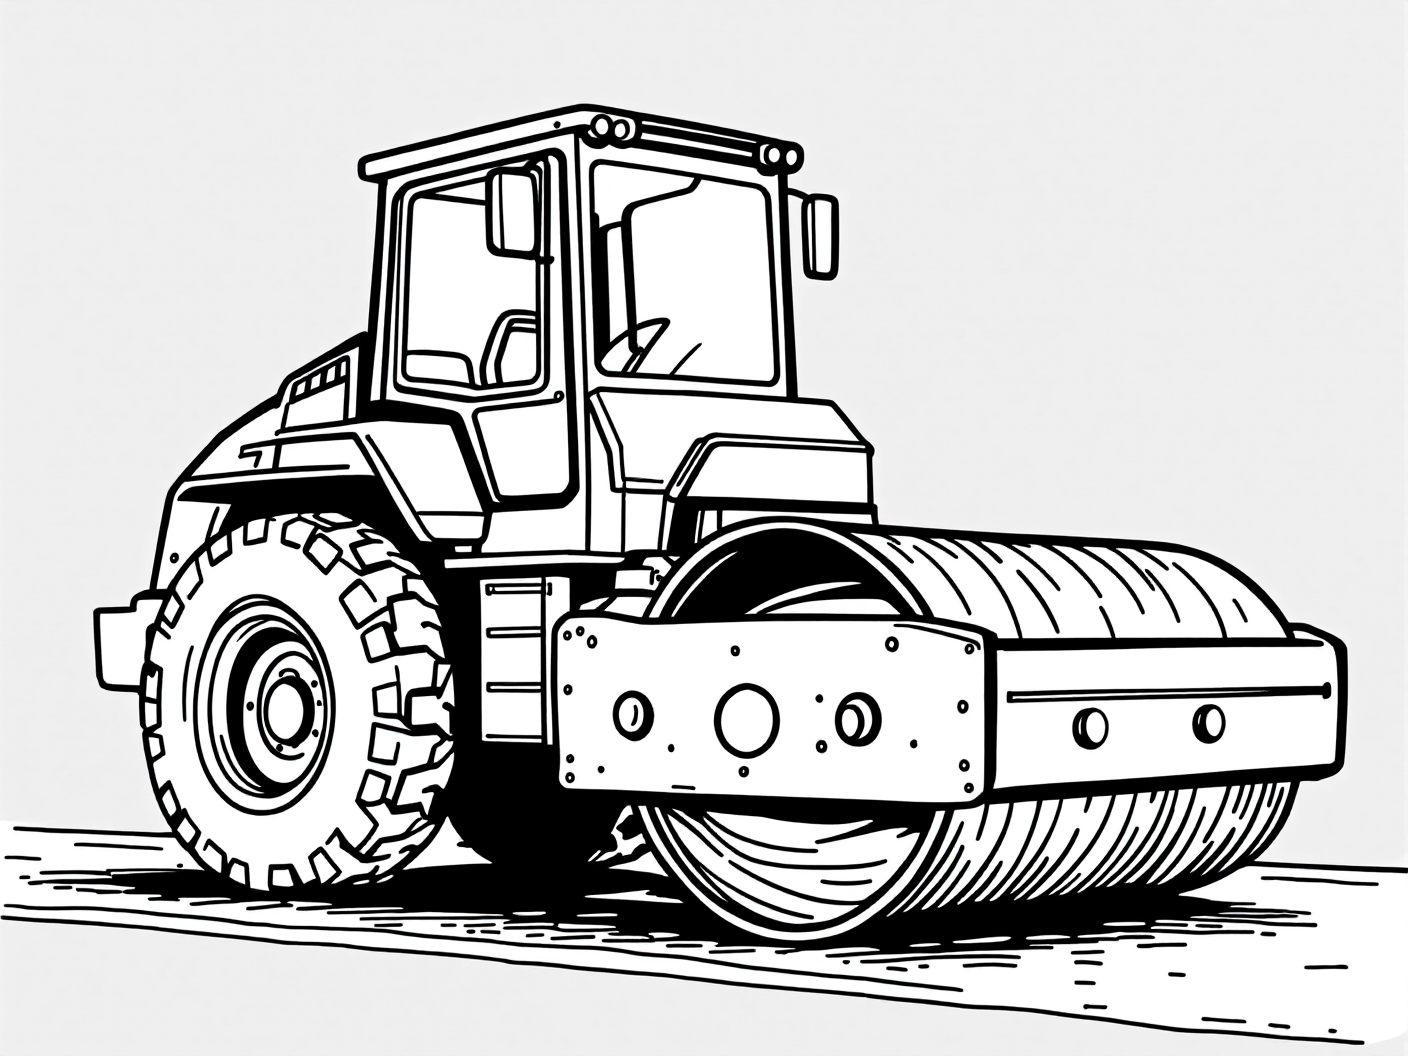
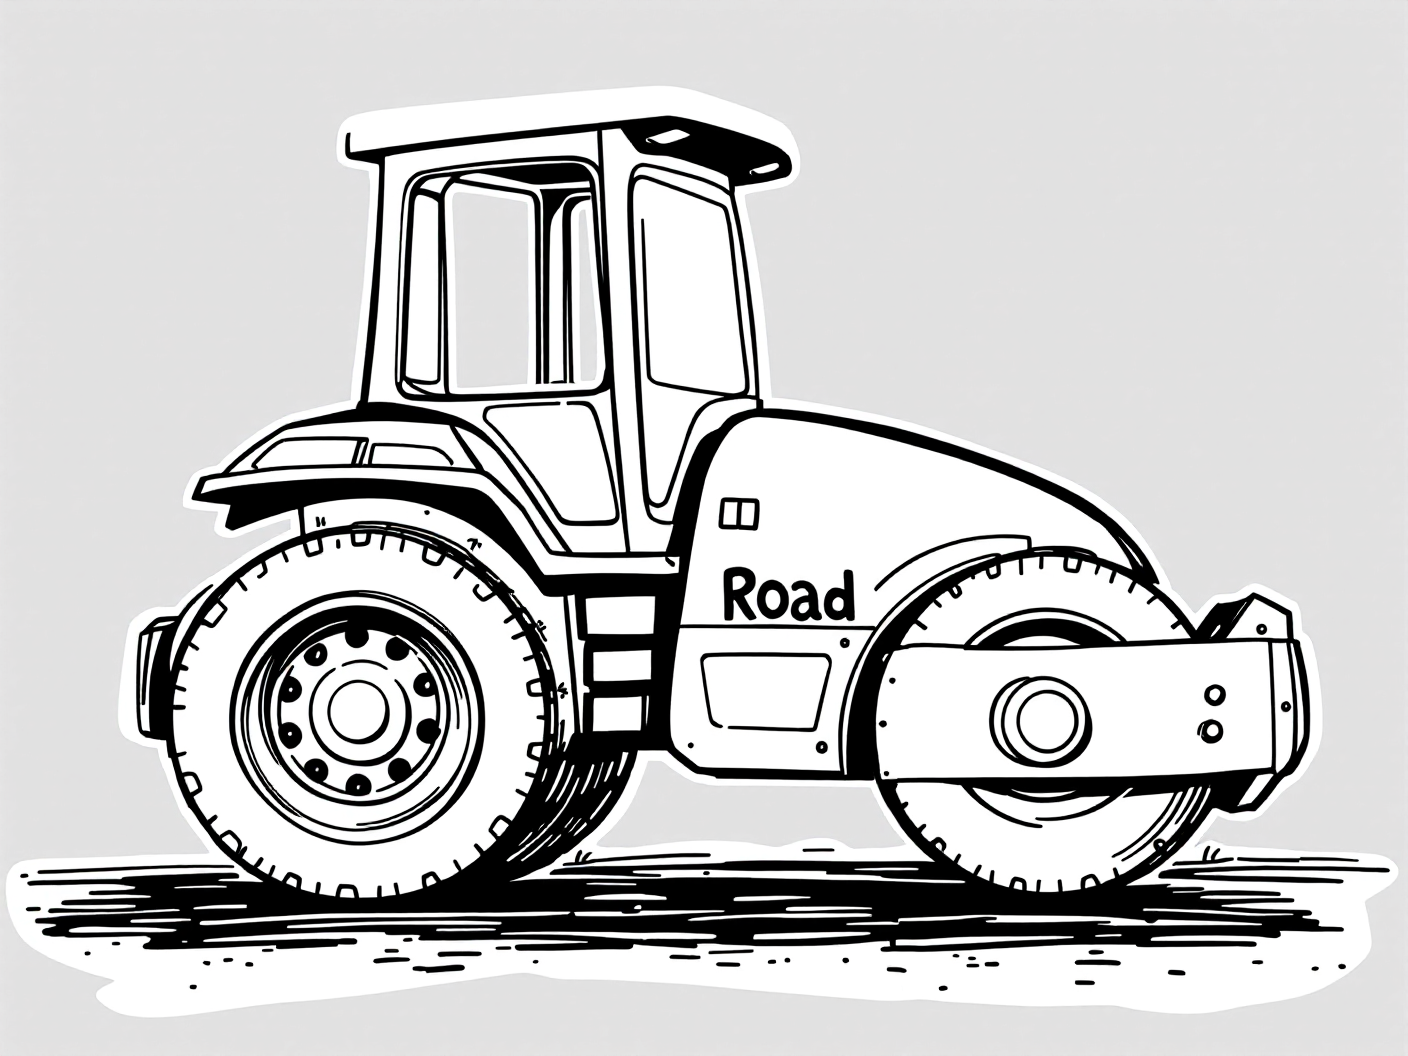
Draw the machines with Recraft instead of Flux
Rewriting every subject in the style that fixed a06 did not work. The retest
came back with the same lattice crane and the same realistic roller, and the
roller had the word "Road" written on it — one of the checklist's own reject
reasons. Two prompt fixes have now failed on these subjects.

The pattern in 35 generations is that Flux draws a single simple object well
— a cone, a hard hat, a sign, a wheel, a crate — and returns technical
illustration for cranes, rollers, excavators and loaders whatever the prompt
says. That is a prior, not a wording problem, so the third guess at wording
is not worth buying.

So the model is chosen per image. The 12 Flux got right stay on Flux. The 15
machines go to Recraft V3 SVG, which draws vector line art and returns an
actual SVG, so those need no cleanup and no tracing at all. Recraft costs
$0.08 against Flux's $0.04 and takes a size string rather than width and
height, so the pricing, the sizes and the inputs are all per model now, and
the ledger records which model drew what.

Claude-Session: https://claude.ai/code/session_01W4RSLQMevwHV1dZEG8RDu2

Changed region(s): [[0.0, 0.0938, 1.0, 1.0]]

diff --git a/book/scripts/build_cover.py b/book/scripts/build_cover.py
@@ -1,0 +1,200 @@
+#!/usr/bin/env python3
+"""
+Build the KDP cover from the book's own line art.
+
+Plan A in the book plan: colour the interior drawings rather than generating a
+separate cover image. The usual one-star complaint about activity books is
+that the cover shows art the book doesn't contain, and this makes that
+impossible — every truck on the front is a page inside.
+
+The cover is one landscape PDF spanning back, spine and front, which is what
+KDP expects for a paperback:
+
+    +---------------+-------+---------------+
+    |  back cover   | spine |  front cover  |
+    +---------------+-------+---------------+
+
+Spine width comes from KDP's own formula for black-and-white interiors on
+white paper, and must be checked against their cover calculator once the page
+count is final.
+
+Usage:
+    python3 book/scripts/build_cover.py
+    python3 book/scripts/build_cover.py --pages 76 --bleed 0.125
+"""
+
+import argparse
+import sys
+from pathlib import Path
+
+from reportlab.lib.colors import Color, black, white
+from reportlab.lib.units import inch
+from reportlab.pdfgen import canvas
+
+sys.path.insert(0, str(Path(__file__).resolve().parent))
+
+from build_pages import draw_art, register_fonts  # noqa: E402
+
+HERE = Path(__file__).resolve().parent
+BOOK = HERE.parent / "book1"
+ART_CLEAN = BOOK / "art-clean"
+OUT = BOOK.parent / "out"
+
+TRIM_W, TRIM_H = 8.5 * inch, 11 * inch
+# KDP: black-and-white interior on white paper is 0.002252 inches per page.
+SPINE_PER_PAGE = 0.002252 * inch
+
+SKY = Color(0.65, 0.85, 0.95)
+SAND = Color(0.99, 0.86, 0.55)
+BAND = Color(0.98, 0.76, 0.20)
+INK = black
+
+
+def _art(key: str) -> Path | None:
+    p = ART_CLEAN / f"{key}.png"
+    return p if p.exists() else None
+
+
+def coloured(c, key: str, box, tint: Color):
+    """
+    Draw one interior illustration twice: a solid tint, then its black lines
+    on top. The line art has no fillable regions of its own, so this reads as
+    a flat colour behind the drawing rather than true colouring-in — which is
+    what a chunky toddler cover wants anyway.
+    """
+    art = _art(key)
+    if art is None:
+        return False
+    x, y, w, h = box
+    draw_art(c, art, (x + 2.5, y - 2.5, w, h), fill=tint)
+    draw_art(c, art, box, fill=INK)
+    return True
+
+
+def build(out: Path, pages: int, bleed: float) -> tuple[float, float]:
+    spine = pages * SPINE_PER_PAGE
+    bl = bleed * inch
+    total_w = TRIM_W * 2 + spine + bl * 2
+    total_h = TRIM_H + bl * 2
+
+    register_fonts()
+    c = canvas.Canvas(str(out), pagesize=(total_w, total_h))
+    c.setTitle("Cut, Color & Build: Construction Site — cover")
+
+    front_x = bl + TRIM_W + spine
+    back_x = bl
+
+    # Sky across the whole wrap, then a sand band along the bottom.
+    c.setFillColor(SKY)
+    c.rect(0, 0, total_w, total_h, stroke=0, fill=1)
+    c.setFillColor(SAND)
+    c.rect(0, 0, total_w, bl + TRIM_H * 0.30, stroke=0, fill=1)
+
+    # --- front -------------------------------------------------------------
+    c.setFillColor(BAND)
+    c.roundRect(front_x + 0.5 * inch, bl + TRIM_H - 2.45 * inch,
+                TRIM_W - 1.0 * inch, 1.75 * inch, 16, stroke=0, fill=1)
+    c.setFillColor(INK)
+    c.setFont("Fredoka-SemiBold", 19)
+    c.drawCentredString(front_x + TRIM_W / 2, bl + TRIM_H - 1.25 * inch, "Cut, Color & Build")
+    c.setFont("Fredoka-Bold", 44)
+    c.drawCentredString(front_x + TRIM_W / 2, bl + TRIM_H - 2.05 * inch, "Construction Site")
+
+    coloured(c, "a06", (front_x + 0.45 * inch, bl + TRIM_H * 0.36,
+                        TRIM_W - 0.9 * inch, TRIM_H * 0.30), Color(0.96, 0.62, 0.15))
+    coloured(c, "a01", (front_x + 0.5 * inch, bl + TRIM_H * 0.14,
+                        TRIM_W * 0.44, TRIM_H * 0.20), Color(0.98, 0.80, 0.18))
+    coloured(c, "a23", (front_x + TRIM_W * 0.62, bl + TRIM_H * 0.14,
+                        TRIM_W * 0.26, TRIM_H * 0.20), Color(0.94, 0.35, 0.22))
+
+    for i, (text, dy) in enumerate((("Scissor Skills for Ages 3–5", 0.95),
+                                    ("35 Cutting Activities", 0.52))):
+        bw, bh = 3.1 * inch, 0.36 * inch
+        bx = front_x + TRIM_W / 2 - bw / 2
+        by = bl + dy * inch
+        c.setFillColor(white)
+        c.setStrokeColor(INK)
+        c.setLineWidth(2.4)
+        c.roundRect(bx, by, bw, bh, 14, stroke=1, fill=1)
+        c.setFillColor(INK)
+        c.setFont("Fredoka-SemiBold", 13)
+        c.drawCentredString(front_x + TRIM_W / 2, by + 11, text)
+
+    # --- spine -------------------------------------------------------------
+    if spine > 0.10 * inch:  # KDP only allows spine text from about 80 pages
+        c.saveState()
+        c.translate(bl + TRIM_W + spine / 2, bl + TRIM_H / 2)
+        c.rotate(90)
+        c.setFillColor(INK)
+        c.setFont("Fredoka-SemiBold", 11)
+        c.drawCentredString(0, -4, "Cut, Color & Build: Construction Site")
+        c.restoreState()
+
+    # --- back --------------------------------------------------------------
+    c.setFillColor(white)
+    c.roundRect(back_x + 0.6 * inch, bl + TRIM_H * 0.30,
+                TRIM_W - 1.2 * inch, TRIM_H * 0.58, 18, stroke=0, fill=1)
+
+    c.setFillColor(INK)
+    c.setFont("Fredoka-Bold", 21)
+    c.drawString(back_x + 0.95 * inch, bl + TRIM_H * 0.80,
+                 "Your little builder is about")
+    c.drawString(back_x + 0.95 * inch, bl + TRIM_H * 0.765,
+                 "to become a scissor master!")
+
+    c.setFont("Fredoka-Regular", 11.5)
+    body = [
+        "Cutting practice turned into a real construction project.",
+        "Kids start with easy snips and move step by step to straight",
+        "roads, zigzags, waves, shapes, and finally cut-and-glue",
+        "projects where they build their own dump truck, excavator",
+        "and building.",
+    ]
+    y = bl + TRIM_H * 0.715
+    for line in body:
+        c.drawString(back_x + 0.95 * inch, y, line)
+        y -= 16
+
+    bullets = [
+        "35 cutting activities across 5 levels",
+        "Big, bold trucks, diggers and cranes to color",
+        "Single-sided pages, so cutting one never ruins the next",
+        "An easy tear-out line on every page",
+        "A Scissor Master certificate at the end",
+    ]
+    y -= 12
+    for line in bullets:
+        c.setFillColor(BAND)
+        c.circle(back_x + 1.02 * inch, y + 4, 4.5, stroke=0, fill=1)
+        c.setFillColor(INK)
+        c.setFont("Fredoka-Regular", 11.5)
+        c.drawString(back_x + 1.22 * inch, y, line)
+        y -= 19
+
+    c.setFont("Fredoka-Regular", 9.5)
+    c.drawString(back_x + 0.95 * inch, bl + TRIM_H * 0.345,
+                 "Use with child-safe scissors and adult supervision.")
+
+    c.showPage()
+    c.save()
+    return spine / inch, total_w / inch
+
+
+def main() -> int:
+    ap = argparse.ArgumentParser(description=__doc__)
+    ap.add_argument("--pages", type=int, default=76)
+    ap.add_argument("--bleed", type=float, default=0.125)
+    ap.add_argument("--out", type=Path, default=OUT / "cover.pdf")
+    args = ap.parse_args()
+
+    args.out.parent.mkdir(parents=True, exist_ok=True)
+    spine, width = build(args.out, args.pages, args.bleed)
+    print(f"cover → {args.out}")
+    print(f"{args.pages} pages, spine {spine:.3f} in, wrap {width:.3f} x "
+          f"{TRIM_H / inch + args.bleed * 2:.3f} in with {args.bleed} in bleed")
+    print("Check the spine against KDP's cover calculator before uploading.")
+    return 0
+
+
+if __name__ == "__main__":
+    raise SystemExit(main())
